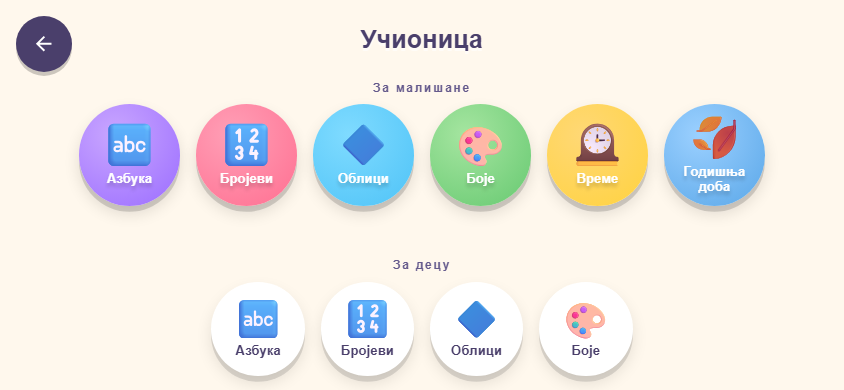
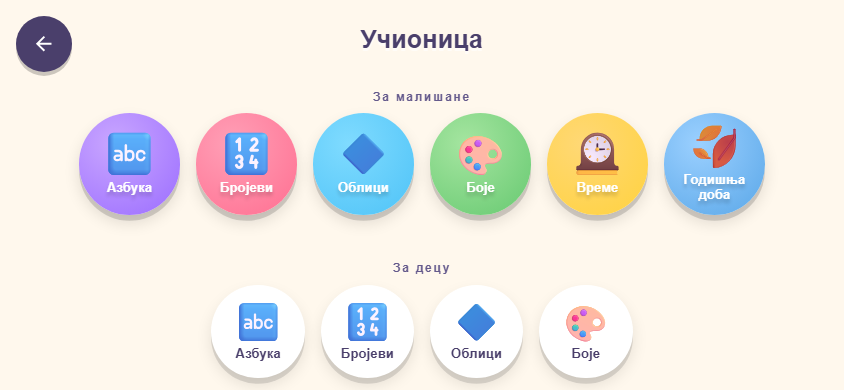
task 230 (V13): classroom hierarchy - section labels no longer crowd the page title once the hub overflows (gap on #classroomHub top padding 8->31px at 768x1024, header budget untouched); V2.4 already removed the absolute title + overlap; classroom_smoke 34->37 (+3 tablet-portrait guards: spacing, c

diff --git a/tools/classroom_smoke.js b/tools/classroom_smoke.js
@@ -310,6 +310,38 @@ const CLICK = sel => `document.querySelector('${sel}').click(); true`;
   // viewport). titleVisible keeps the check non-vacuous.
   check('spec §31: hub title never overlaps the back button (and is actually rendered)',
     hubGeom.titleVisible && hubGeom.titleBackOverlap === 0, JSON.stringify(hubGeom));
+
+  // V13 (spec §31/§42.5) — hierarchy + title safe zone. VERIFY-first measured the
+  // page title crowding the first section label: when the hub OVERFLOWS the auto
+  // margins collapse, so «За малишане» sat only 1vmin (~8px) under «Учионица».
+  // The gap now lives on the hub's top padding; these guards pin it (removing that
+  // padding drops the gap back to ~8px, so the check is non-vacuous) and pin the
+  // reserved corner zones the centred title must never enter.
+  const v13 = JSON.parse(await h3.evalv(`JSON.stringify((function(){
+    const r = el => el.getBoundingClientRect();
+    const title = document.getElementById('classroomTitle');
+    const hd = document.querySelector('#game-classroom .ps-header');
+    const first = document.querySelector('#classroomHub .hub-group-title');
+    const tb = r(title), hb = r(hd), fb = r(first);
+    const cs = getComputedStyle(hd);
+    const padL = parseFloat(cs.paddingLeft), padR = parseFloat(cs.paddingRight);
+    const vmin = Math.min(innerWidth, innerHeight) / 100;
+    const contentLeft = hb.left + padL, contentRight = hb.right - padR;
+    return {
+      gap: Math.round(fb.top - tb.bottom),
+      padL: Math.round(padL), padR: Math.round(padR),
+      titleFont: parseFloat(getComputedStyle(title).fontSize),
+      groupFont: parseFloat(getComputedStyle(first).fontSize),
+      inContentBox: tb.left >= contentLeft - 0.5 && tb.right <= contentRight + 0.5,
+      vmin: +vmin.toFixed(3)
+    };
+  })())`));
+  check('V13 tablet portrait: page title is separated from the section label (§42.5 spacing)',
+    v13.gap >= 20, JSON.stringify(v13));
+  check('V13 tablet portrait: title stays inside the reserved corner safe zones (§31)',
+    v13.inContentBox && v13.padL >= 11 * v13.vmin && v13.padR >= 11 * v13.vmin, JSON.stringify(v13));
+  check('V13 tablet portrait: page title keeps hierarchy over the section label',
+    v13.titleFont >= 1.8 * v13.groupFont, JSON.stringify(v13));
   await h3.close();
 
   await h.close();

diff --git a/docs/pages/classroom.html b/docs/pages/classroom.html
@@ -72,12 +72,18 @@
      pinned. Centre alignment comes from margin:auto on .hub-group, NOT from
      align-items:center: a centred item that overflows a scroll container is
      clipped at the top and unreachable, while auto margins collapse to 0 when
-     there is no free space (content anchors to the top instead). */
+     there is no free space (content anchors to the top instead).
+     V13 (spec §31/§42.5) — hierarchy: when the hub OVERFLOWS, the auto margins
+     collapse and the section labels used to sit only ~8px (1vmin of title
+     margin) under the page title, so «Учионица» crowded «За малишане». The gap
+     now lives on the hub's top padding, so it belongs to the content band and
+     does NOT grow the header (the §11.1 ~72px top-chrome budget is measured on
+     .ps-header, which is unchanged). */
   #classroomHub{
     display:flex; flex-direction:row; flex-wrap:wrap;
     justify-content:center; gap:6vmin;
     flex:1 1 auto; min-height:0; overflow:auto;
-    padding:0 4vmin; margin:0;
+    padding:3vmin 4vmin 0; margin:0;
   }
   #classroomHub .hub-group{ margin:auto; }
   #classroomHub[hidden]{ display:none; }

diff --git a/game/pages/classroom.html b/game/pages/classroom.html
@@ -72,12 +72,18 @@
      pinned. Centre alignment comes from margin:auto on .hub-group, NOT from
      align-items:center: a centred item that overflows a scroll container is
      clipped at the top and unreachable, while auto margins collapse to 0 when
-     there is no free space (content anchors to the top instead). */
+     there is no free space (content anchors to the top instead).
+     V13 (spec §31/§42.5) — hierarchy: when the hub OVERFLOWS, the auto margins
+     collapse and the section labels used to sit only ~8px (1vmin of title
+     margin) under the page title, so «Учионица» crowded «За малишане». The gap
+     now lives on the hub's top padding, so it belongs to the content band and
+     does NOT grow the header (the §11.1 ~72px top-chrome budget is measured on
+     .ps-header, which is unchanged). */
   #classroomHub{
     display:flex; flex-direction:row; flex-wrap:wrap;
     justify-content:center; gap:6vmin;
     flex:1 1 auto; min-height:0; overflow:auto;
-    padding:0 4vmin; margin:0;
+    padding:3vmin 4vmin 0; margin:0;
   }
   #classroomHub .hub-group{ margin:auto; }
   #classroomHub[hidden]{ display:none; }

diff --git a/VISUAL_UX_IMPLEMENTATION_PLAN.md b/VISUAL_UX_IMPLEMENTATION_PLAN.md
@@ -158,7 +158,7 @@ Ordered by the spec's own priority matrix (§55) and Appendix E. Each item is ta
 | **V10** | Rhythm: four pads read as **drums** — icon contrast, tactile surface, clear active state, depth, percussion symbolism. Mode distinction clear without a complex menu. No extra pads. | **DONE** (2026-10-10, task 227) — the four pads now read as drums: a cast shadow (subtle depth), an inset rim + skin shading (tactile surface), and a light drumhead disc behind the icon (stronger contrast) with a dark icon shadow; the struck state is a bright white ring + real press, the wrong state a gentle dim; the 4th pad is now `🥁` «Високи бубањ» so all four read as one kit; **no pads added**, the two-mode bar unchanged (its active glow stays with `accessibility.css`). The drum set carries the live phase (`data-phase`) so pads dim while listening and a `drumCheer` animation cues a correct repeat. `rhythm_smoke` 22→30 (+8 guards, negative-tested); `check_fast` 7/7; axe clean; audit 0 FAIL; offline E2E green; 4 screenshots refreshed. |
 | **V11** | Counting: enlarge stage, move instruction closer, reduce dead space, comfortable choices, immediate feedback, full mechanic at 844×390. **No quantity 11–20** (curriculum decision, not visual). | **DONE** (2026-10-10, task 228) — the inline-styled page moved to semantic CSS: the column is `min(100%,46rem)` and `#game-counting` fills the viewport, so the stage **wraps inside the viewport** instead of overflowing (worst-case 10 tiles previously measured 696 px wide in a 390 px viewport). The prompt/feedback `#countResult` moved **directly under the stage and above the answer choices**; the stage is enlarged (flex-grow: 466 px tall at portrait, 278 px at desktop) with wrapping tiles; choices meet the **64 px touch floor**; a `@media (max-height:520px)` block fits the full mechanic at 844×390; the celebration is now an absolute overlay so it never shifts layout; the four learning-stage regions are tagged. **No quantity 11–20 added.** `counting_smoke` 16→22 (+6 geometry guards at both acceptance viewports, negative-tested by runtime mutation); `check_fast` 7/7; axe clean; audit 0 FAIL; offline E2E green; 4 screenshots refreshed. |
 | **V12** | Memory: near-square cards, strong central back symbol, inner padding, clear flip state, matched state settles. Fix portrait title/back collision and short-landscape difficulty controls. Do not shrink cards to fit. | **DONE** (2026-10-10, task 229) — `--cell:clamp(64px, min(cqw, cqh), 150px)` inside a `container-type:size` board makes cards near-square (ratio 1.00 at 390×844 / 844×390 / 768×1024 / 1280×800) yet never below the 64 px floor (the 16-card board scrolls instead of shrinking); back symbol `46cqmin` scales with the card (69 px vs 29 px), front has padding, flip turns 180°, match settles (dim + green + not tappable). Difficulty controls fit the 844×390 fold with `aria-pressed`. Fixed a latent portrait title overflow (header `box-sizing:border-box` + `min-width:0`). `memory_smoke` 22→32 (9 guards, each negative-tested); axe clean; `short_landscape_audit` animal_memory OK (was WARN); offline E2E green. |
-| **V13** | Classroom: fix tablet-portrait title overlap, title safe zone, hierarchy between «За малишане»/«За децу» and the page title. Remove dependence on `#classroomTitle { position: absolute; top: 4vmin; }`. Preserve the activity grid. | **BUILD** |
+| **V13** | Classroom: fix tablet-portrait title overlap, title safe zone, hierarchy between «За малишане»/«За децу» and the page title. Remove dependence on `#classroomTitle { position: absolute; top: 4vmin; }`. Preserve the activity grid. | **DONE** (2026-10-11, task 230) — the absolute title + its 2517px² tablet-portrait overlap were already removed by V2.4; V13's live defect was hierarchy: once the hub overflows, the `.hub-group{margin:auto}` centring collapses and the first section label sat only **8 px** under the page title. The gap now lives on `#classroomHub`'s top padding (`3vmin 4vmin 0`), so it does not grow the header (§11.1 budget measured on `.ps-header`, unchanged) — gap 8→31 px at 768×1024/1024×768. Activity grid/tabs/kids tier untouched. `classroom_smoke` 34→37 (3 tablet-portrait guards, each negative-tested: spacing ≥20 px, corner safe zones, title-vs-section font hierarchy); axe clean; audit classroom OK; offline E2E green. |
 | **V14** | Coloring header: title owns header centre, mode is secondary, next is a clear action in a dedicated location, canvas stays dominant. Piano: repair shell geometry only; keyboard is the hero. | **BUILD** |
 | **V15** | Sorting: rounded bucket material, plum labels (not black), softer typography, clear destination surfaces, full tray visibility in short landscape. | **BUILD** |
 | **V16** | Sequencing: soft paper/tray material, slightly larger pieces, clearer placement feedback, small completion moment. No decorative story text. | **BUILD** |

diff --git a/PROJECT_TASKS.md b/PROJECT_TASKS.md
@@ -17,6 +17,11 @@ Important: The AI assistant and any contributor must read this file first when s
 
 ## Active tasks (NEW / IN PROGRESS)
 
+- 230. DONE — Visual/UX plan **V13** (Phase 9–20 — Page-specific, spec §31 / §42.5): **Classroom hierarchy** — fix the tablet-portrait title overlap, the title safe zone, and the hierarchy/spacing between «За малишане»/«За децу» and the page title; remove any dependence on `#classroomTitle { position:absolute; top:4vmin; }`. **Preserve the activity grid.** (Started 2026-10-11, DONE 2026-10-11, Ponytail Lazy Dev.)
+    - **VERIFY-first:** the absolute title and its 2517px² overlap at 768×1024 were already removed by V2.4 (task 216 / plan row V2.4), so the live defect was **hierarchy**: at 390×844 / 768×1024 / 820×1180 / 1024×768 the title↔back overlap is 0 and the title stays in the `.ps-header` flow row, but once the hub OVERFLOWS its `.hub-group{margin:auto}` centring collapses, so the first section label sat only **8 px** under the page title (measured `gapTitleToGroup: 8` at 768×1024, 820×1180 and 1024×768) — «Учионица» crowded «За малишане».
+    - **Fix:** the separation now lives on `#classroomHub`'s top padding (`padding:3vmin 4vmin 0`) — it belongs to the content band and does **not** grow the header (the §11.1 ≤72 px top-chrome budget is measured on `.ps-header`, which is unchanged). Gap at the overflow viewports went **8 → 31 px** (768×1024 / 1024×768) and 33 px (820×1180); header heights unchanged (131 / 131 / 139 px); phone portrait 27 → 35 px. The activity grid, tabs and kids tier are untouched.
+    - **Guards:** `classroom_smoke` 34→**37** — 3 new tablet-portrait guards: title↔section-label gap ≥ 20 px (§42.5 spacing), the title stays inside the `.ps-header`'s reserved 16vmin corner safe zones (§31 `padL/padR ≥ 11vmin` + title within the content box), and the title keeps hierarchy over the section label (`titleFont ≥ 1.8 × groupFont`). **Each negative-tested** by runtime CSS mutation (`#classroomHub{padding-top:0}` → gap 8 red, `.ps-header{padding:0}` → padL 0 red, `#classroomTitle{font-size:3vmin}` → ratio red), then dropped (no file at risk). `run_all --game classroom` 37/37; axe clean; `short_landscape_audit` **classroom OK** (0 FAIL); offline E2E 23 games green; `check_fast` 7/7 after `build_offline`+`sync-docs`; 4 screenshots refreshed (`--task=230`). **Visual self-review pending (model can't read images — recommend MiMo V2.5 Free on the refreshed `classroom_*.png`). Next down the list: V14 (Coloring header + Piano shell geometry).**
+
 - 229. DONE — Visual/UX plan **V12** (Phase 9–20 — Page-specific, spec §30 / §42.3): refine **Animal Memory** — cards must read as actual cards (near-square proportion, strong central back symbol, enough inner padding, clear flip state, matched state settles); fix the short-landscape difficulty controls; **do not shrink cards to fit**. VERIFY-first, then smallest correct fix + non-vacuous guards. (Started 2026-10-10, DONE 2026-10-10, Ponytail Lazy Dev.)
     - **VERIFY-first:** probe at 390×844 / 844×390 / 768×1024 / 1280×800. Easy mode (default) card measured **ratio 2.19** (390×844) and **3.95** (844×390) — broad slabs, not cards; the 🃏 back symbol is **27.3 px** on phone (52 px tablet) — small and fixed, not tied to card size; `card-front` padding **0**; and at 844×390 the document is **432 px tall in a 390 px viewport** (42 px overflow) with `.diff-btn` bottom at **416 px** (26 px below the fold) — the short-landscape difficulty controls the spec owns.
     - **Fix:** `animal_memory.html` moved off the fixed-px board to a full-height flex column body (`height:100dvh; overflow:hidden`) with `#board-wrap` flex-growing + `container-type:size`; `#board` cells sized by `--cell:clamp(64px, min((100cqw−gaps)/cols, (100cqh−gaps)/rows), 150px)` so cards are **near-square at every viewport** (measured ratio **1.00** at 390×844 / 844×390 / 768×1024 / 1280×800) yet **never below the 64 px touch floor** — the standard 16-card board **scrolls rather than shrinking** the cards. Cards are `aspect-ratio:1` + `container-type:size`; the back symbol is `font-size:46cqmin` (69 px on a 150 px card, 29 px on a 64 px card — scales with the card, not fixed); `card-front` has real padding; matched = `.55` opacity + green face + `pointer-events:none` + a settle animation. Difficulty controls consolidated into one bottom `#controls` row driven by `aria-pressed` (JS switched from `style.outline`); a `@media (max-height:520px)` block compresses the chrome. Fixed a latent **portrait title overflow**: `.memory-header` needed `box-sizing:border-box` (the header's `width:100%` + padding was overflowing 32 px → title box measured **406 px in a 390 px viewport**) and the title needed `min-width:0`.

diff --git a/README.md b/README.md
@@ -4,7 +4,9 @@
 
 ---
 
-## Current status (2026-10-10)
+## Current status (2026-10-11)
+
+- **Task 230 DONE (2026-10-11):** Phase 9-20 - V13 (Classroom hierarchy, spec 31/42.5) - the absolute title and its tablet-portrait overlap were already removed by V2.4, so V13's live defect was **hierarchy**: once the hub overflows its auto-margin centring collapses and «За малишане» sat only 8 px under «Учионица». The separation now lives on `#classroomHub`'s top padding (`3vmin 4vmin 0`), so it does not grow the header (the 11.1 ~72 px budget is measured on `.ps-header`, unchanged): the gap goes 8 -> 31 px at 768x1024 / 1024x768. Activity grid, tabs and kids tier untouched. `classroom_smoke` 34->37 (3 tablet-portrait guards - spacing, corner safe zones, title-vs-section font hierarchy - each negative-tested by runtime mutation); `check_fast` 7/7; axe clean; `short_landscape_audit` classroom OK (0 FAIL); offline E2E green; 4 screenshots refreshed. (Ponytail Lazy Dev)
 
 - **Task 229 DONE (2026-10-10):** Phase 9-20 - V12 (Memory card refinement, spec 30/42.3) - Animal Memory cards now read as **actual cards**: the page moved to a full-height flex column with a `container-type:size` board whose `--cell` is `clamp(64px, min(cqw, cqh), 150px)`, so cards are **near-square at every viewport** (ratio measured 1.00 at 390x844 / 844x390 / 768x1024 / 1280x800) while **never dropping below the 64 px touch floor** — the 16-card standard board **scrolls instead of shrinking** the cards. Back symbol now scales with the card (`font-size:46cqmin`: 69 px on a 150 px card, 29 px on the 64 px card), the face has real padding, the flip turns a full 180°, and a match settles (dim + green face + not tappable). Difficulty controls fit the short-landscape fold with `aria-pressed`, and a latent portrait title overflow (header `width:100%` + padding, no `min-width:0`) was fixed. `memory_smoke` 22->32 (9 new guards, each negative-tested by runtime mutation); `check_fast` 7/7; axe clean; `short_landscape_audit` **animal_memory OK** (was WARN); offline E2E green; 4 screenshots refreshed. (Ponytail Lazy Dev)
 - **Task 228 DONE (2026-10-10):** Phase 9-20 - V11 (Counting refinement, spec 29/42.2) - the Animal Counting page moved from inline styles to semantic CSS: the column is `min(100%,46rem)` and `#game-counting` fills the viewport, so the stage **wraps inside the viewport** instead of overflowing (worst-case 10 tiles previously measured 696 px wide in a 390 px viewport). The prompt/feedback moved **directly under the stage and above the answer choices**; the stage is enlarged via flex-grow (466 px at portrait, 278 px at desktop) with wrapping tiles; choices meet the 64 px touch floor; a `@media (max-height:520px)` block fits the full mechanic at 844×390; the celebration is now an absolute overlay so it never shifts layout. **No quantity 11-20 added.** `counting_smoke` 16->22 checks (+6 geometry guards at both acceptance viewports, negative-tested by runtime mutation); `check_fast` 7/7; axe clean; audit 0 FAIL; offline E2E green; 4 screenshots refreshed.

diff --git a/CONTRIBUTING.md b/CONTRIBUTING.md
@@ -62,7 +62,7 @@ Consequences for contributors:
 
 ## Task lifecycle
 
-- **Task 229 (Visual/UX V12 — Animal Memory card refinement, spec §30/§42.3) is DONE (2026-10-10); task 228 (Visual/UX V11 — counting refinement) is DONE (2026-10-10); task 227 (Visual/UX V10 — Rhythm pads as drums) is DONE (2026-10-10); task 226 (Visual/UX V9 — Maze cozy-garden elevation) is DONE (2026-10-10); task 225 (Visual/UX V8.1 — animal content composition, "V8 Animals") is DONE (2026-10-10); task 224 (Visual/UX V7.1 — tactile component layer + `.ps-back` adoption) is DONE (2026-10-10); task 223 (Visual/UX V6.2 — apply the Petrin Glow to the six attention states) is DONE (2026-10-09); task 222 (Visual/UX V6.1 — Petrin Glow) is DONE (2026-10-09); task 221 (Visual/UX V5.1 — learning-stage grammar) is DONE (2026-10-09); task 220 (Visual/UX V4.1 — Adventure HUD unification) is DONE (2026-10-09); task 219 (Visual/UX V3.2 — 4 short-landscape FAIL fixes, audit at 0 FAIL) is DONE (2026-10-09); task 218 (terminal plan-status line `tools/plan_progress.js`) is DONE (2026-10-09); task 217 (Visual/UX V3.1 — 844×390 short-landscape audit) is DONE (2026-10-09); task 216 (V0–V2) is DONE (2026-10-08).**
+- **Task 230 (Visual/UX V13 — Classroom hierarchy, spec §31/§42.5) is DONE (2026-10-11); task 229 (Visual/UX V12 — Animal Memory card refinement, spec §30/§42.3) is DONE (2026-10-10); task 228 (Visual/UX V11 — counting refinement) is DONE (2026-10-10); task 227 (Visual/UX V10 — Rhythm pads as drums) is DONE (2026-10-10); task 226 (Visual/UX V9 — Maze cozy-garden elevation) is DONE (2026-10-10); task 225 (Visual/UX V8.1 — animal content composition, "V8 Animals") is DONE (2026-10-10); task 224 (Visual/UX V7.1 — tactile component layer + `.ps-back` adoption) is DONE (2026-10-10); task 223 (Visual/UX V6.2 — apply the Petrin Glow to the six attention states) is DONE (2026-10-09); task 222 (Visual/UX V6.1 — Petrin Glow) is DONE (2026-10-09); task 221 (Visual/UX V5.1 — learning-stage grammar) is DONE (2026-10-09); task 220 (Visual/UX V4.1 — Adventure HUD unification) is DONE (2026-10-09); task 219 (Visual/UX V3.2 — 4 short-landscape FAIL fixes, audit at 0 FAIL) is DONE (2026-10-09); task 218 (terminal plan-status line `tools/plan_progress.js`) is DONE (2026-10-09); task 217 (Visual/UX V3.1 — 844×390 short-landscape audit) is DONE (2026-10-09); task 216 (V0–V2) is DONE (2026-10-08).**
 
 - **Before starting any new task, check git/CI status** (`git status --short`, `gh run list`). If anything is failing or the tree is dirty in a way you did not create, report it and propose fixing it first — never start a new task on a red pipeline or a stale tree (task 214).
 - Mark the task **IN PROGRESS** in `PROJECT_TASKS.md` when starting and **DONE** with a dated note (who, what, why) when finished.

diff --git a/HANDOVER_PROMPT.md b/HANDOVER_PROMPT.md
@@ -6,7 +6,13 @@ Purpose
 
 This file summarizes the current workspace, conventions, and project state so the next session can continue without friction. Read this before making changes. It is refreshed at the end of every session.
 
-## Current session — Task 229 (V12 Memory) DONE — 2026-10-10
+## Current session — Task 230 (V13 Classroom) DONE — 2026-10-11
+
+**User instruction (2026-10-11):** continue the visual/UX plan tasks one by one; at the end of each task update all project docs, sync `game/`→`docs/`, refresh the affected review screenshots, and commit+push with a CI check. Do not stop between tasks — only stop for a genuine decision with no recommendation. (Standing approval carries; make recommended decisions without asking.)
+
+- **Task 230 DONE:** Phase 9–20 — V13 (spec §31/§42.5). **Classroom hierarchy.** The absolute `#classroomTitle{position:absolute;top:4vmin}` and its 2517px² tablet-portrait overlap were already removed by **V2.4** (plan row V2.4, task 216), so the live defect was **hierarchy**: at 390×844 / 768×1024 / 820×1180 / 1024×768 the title↔back overlap is 0 and the title is in the `.ps-header` flow row, but once the hub OVERFLOWS its `.hub-group{margin:auto}` centring collapses and «За малишане» sat only **8 px** under «Учионица». Fix: the separation now lives on `#classroomHub`'s top padding (`padding:3vmin 4vmin 0`) — it belongs to the content band, so it does **not** grow the header (the §11.1 ≤72 px top-chrome budget is measured on `.ps-header`, unchanged): the gap goes **8 → 31 px** at 768×1024 / 1024×768 (33 px at 820×1180, 35 px phone), header heights unchanged. Activity grid, tabs and kids tier untouched. `classroom_smoke` 34→**37** (3 tablet-portrait guards: §42.5 spacing ≥20 px, §31 corner safe zones `padL/padR ≥ 11vmin` + title in the content box, and `titleFont ≥ 1.8 × groupFont`; **each negative-tested by runtime CSS mutation** — no file at risk); `check_fast` 7/7 after `build_offline`+`sync-docs`; axe clean; `short_landscape_audit` **classroom OK** (0 FAIL); offline E2E 23 games green; 4 screenshots refreshed (`--task=230`). **Visual self-review pending (model can't read images — recommend MiMo V2.5 Free on the refreshed `classroom_*.png`). Next down the list: V14 (Coloring header + Piano shell geometry).**
+
+## Earlier session — Task 229 (V12 Memory) DONE — 2026-10-10
 
 **User instruction (2026-10-10):** continue the visual/UX plan tasks one by one; at the end of each task update all project docs, sync `game/`→`docs/`, refresh the affected review screenshots, and commit+push with a CI check (approval granted this session). Do not stop between tasks — only stop for a genuine decision with no recommendation.
 

diff --git a/resources/General_reviews/Screenshot_Review/TABLE_OF_CONTENT.md b/resources/General_reviews/Screenshot_Review/TABLE_OF_CONTENT.md
@@ -1,6 +1,6 @@
 # Преглед екрана (UI review)
 
-- Генерисано / Generated: 2026-10-10T12:30:52.454Z
+- Генерисано / Generated: 2026-10-11T08:31:15.022Z
 - Поново направи / Regenerate: `node tools/screenshot.js --review=Screenshot_Review`
 - Освежи само промењену страну / Refresh only a changed page: `node tools/screenshot.js --review=Screenshot_Review --pages=<id> --task=<id>`
 
@@ -24,10 +24,10 @@
 | `animals_phone-portrait.png` | Животиње | `/pages/animals.html` | 390×844 | портрет | — | 10.10.2026. 12:06:23 | 225 |
 | `animals_tablet-landscape.png` | Животиње | `/pages/animals.html` | 1180×820 | пејзаж | — | 10.10.2026. 12:06:23 | 225 |
 | `animals_tablet-portrait.png` | Животиње | `/pages/animals.html` | 820×1180 | портрет | — | 10.10.2026. 12:06:23 | 225 |
-| `classroom_phone-landscape.png` | Учионица | `/pages/classroom.html` | 844×390 | пејзаж | — | 09.10.2026. 16:53:58 | 223 |
-| `classroom_phone-portrait.png` | Учионица | `/pages/classroom.html` | 390×844 | портрет | — | 09.10.2026. 16:53:58 | 223 |
-| `classroom_tablet-landscape.png` | Учионица | `/pages/classroom.html` | 1180×820 | пејзаж | — | 09.10.2026. 16:53:58 | 223 |
-| `classroom_tablet-portrait.png` | Учионица | `/pages/classroom.html` | 820×1180 | портрет | — | 09.10.2026. 16:53:58 | 223 |
+| `classroom_phone-landscape.png` | Учионица | `/pages/classroom.html` | 844×390 | пејзаж | — | 11.10.2026. 10:31:15 | 230 |
+| `classroom_phone-portrait.png` | Учионица | `/pages/classroom.html` | 390×844 | портрет | — | 11.10.2026. 10:31:15 | 230 |
+| `classroom_tablet-landscape.png` | Учионица | `/pages/classroom.html` | 1180×820 | пејзаж | — | 11.10.2026. 10:31:15 | 230 |
+| `classroom_tablet-portrait.png` | Учионица | `/pages/classroom.html` | 820×1180 | портрет | — | 11.10.2026. 10:31:15 | 230 |
 | `coloring_phone-landscape.png` | Бојење | `/pages/coloring.html` | 844×390 | пејзаж | — | 08.10.2026. 10:05:48 | 216 |
 | `coloring_phone-portrait.png` | Бојење | `/pages/coloring.html` | 390×844 | портрет | — | 08.10.2026. 10:05:48 | 216 |
 | `coloring_tablet-landscape.png` | Бојење | `/pages/coloring.html` | 1180×820 | пејзаж | — | 08.10.2026. 10:05:48 | 216 |

diff --git a/resources/General_reviews/SHORT_LANDSCAPE_AUDIT.md b/resources/General_reviews/SHORT_LANDSCAPE_AUDIT.md
@@ -1,6 +1,6 @@
 # Short-landscape audit — 844×390 (spec §11)
 
-Generated: 2026-10-10 12:29 UTC · task 217 (V3.1) · `node tools/short_landscape_audit.js`
+Generated: 2026-10-11 08:30 UTC · task 217 (V3.1) · `node tools/short_landscape_audit.js`
 
 Every surface (hub + 24 registry apps) measured at **844×390** against the
 Master Visual/UX plan §11 checklist: header budget 56–72 px, board-first,
